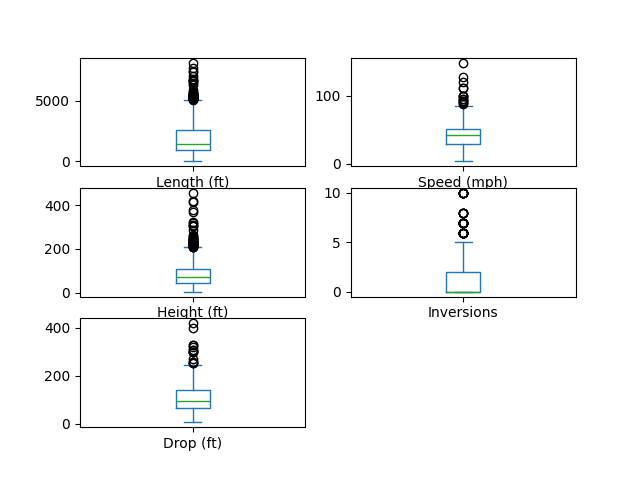
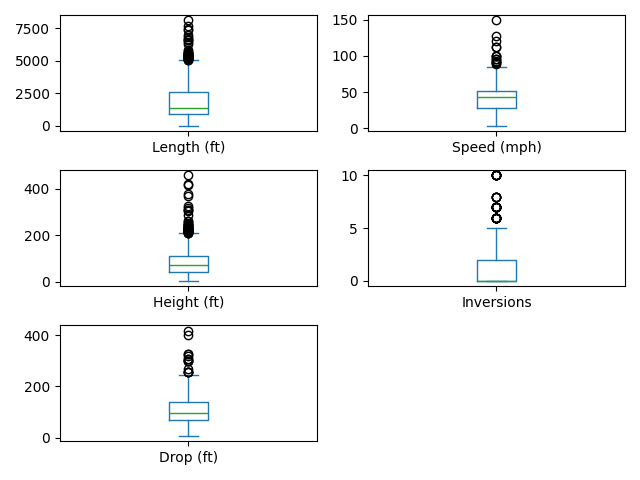
correct diagrams

diff --git a/col_visuals.py b/col_visuals.py
@@ -6,20 +6,23 @@ from pandas import read_csv
 from pandas.plotting import scatter_matrix
 from matplotlib import pyplot as plt
 import pandas as pd
+import seaborn as sns
 
 data = pd.read_csv("clean_total.csv")
 
 #cols we're analyzing
 dataframe = data[["Length (ft)", "Speed (mph)", "Height (ft)", "Inversions", "Drop (ft)"]]
-
 # box and whisker plots
 dataframe.plot(kind='box', subplots=True, layout=(3,2), sharex=False, sharey=False)
+plt.tight_layout()
 plt.savefig("clean_boxplots.png")
 
 # histograms
 dataframe.hist()
+plt.tight_layout()
 plt.savefig("clean_histograms.png")
 
 # scatter plot matrix
 scatter_matrix(dataframe)
+plt.tight_layout()
 plt.savefig("clean_scatterplots.png")
